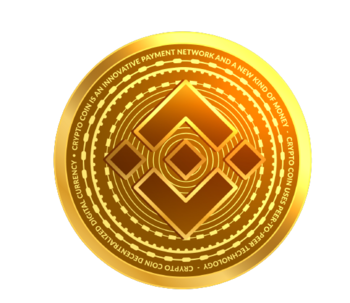
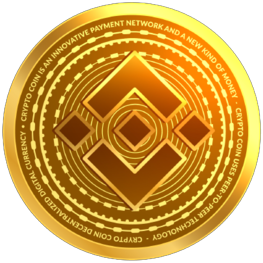
Update to frontend and images

diff --git a/front-end/index.py b/front-end/index.py
@@ -8,26 +8,34 @@ from utilities.utils import Utils
 
 CURRENCIES = ["BITCOIN", "ETHEREUM", "BINANCE"]
 
+DESCRIPTIONS = {"BITCOIN": "Bitcoin is the world’s most traded cryptocurrency, representing a huge slice of the "
+                           "crypto market pie.",
+                "ETHEREUM": "Ethereum is a platform for "
+                            "creating decentralized applications based on blockchain and smart contract technology.",
+                "BINANCE": "Binance Coin is a cryptocurrency that can be used to trade and pay fees on the "
+                           "Binance cryptocurrency exchange. "
+                }
+
 card_list = []
 for currency in CURRENCIES:
     card = dbc.Card(
         [
-            dbc.CardImg(src="assets/" + str(currency) + ".png", top=True),
+            dbc.CardImg(src="assets/" + str(currency) + ".png", top=True, className="p-5"),
             dbc.CardBody(
                 [
                     html.H4(currency, className="card-title text-center"),
                     html.P(
-                        "Some quick example text to build on the card title and "
-                        "make up the bulk of the card's content.",
+                        DESCRIPTIONS[str(currency)],
                         className="card-text",
+                        style={"height": "12vh"}
                     ),
                     dcc.Link(html.Button("Prediction", className="button"),
-                             href="/trend?currency="+ str(currency).lower(),
+                             href="/trend?currency=" + str(currency).lower(),
                              refresh=True, className="text-decoration-none")
                 ]
             ),
         ],
-        style={"width": "auto"},
+        style={"width": "auto"}
     )
     card_list.append(card)
 
@@ -69,5 +77,4 @@ if __name__ == '__main__':
     up.update_currencies_collections()
 
     # debug mode is False because otherwise the updater() runs continously and overwrites mongo data
-    app.run_server(debug=True)
-
+    app.run_server(debug=False)
